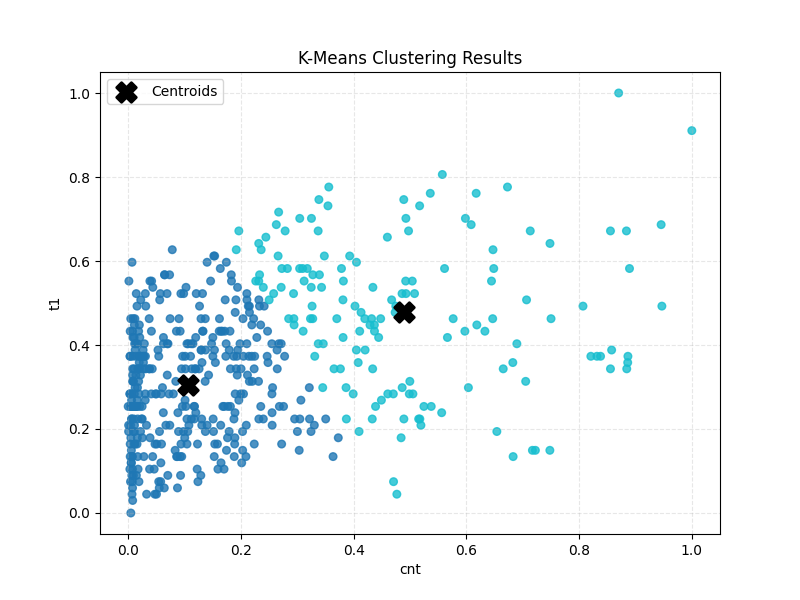
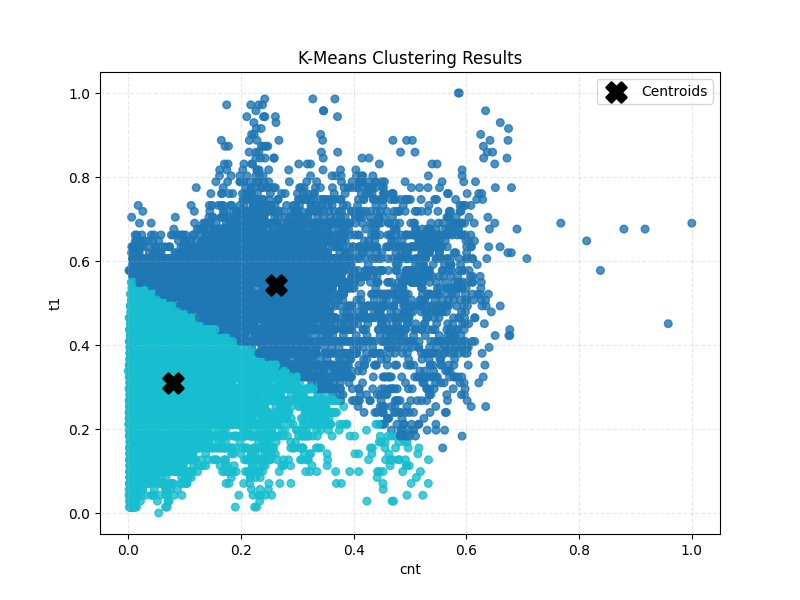
V1.0 cosmetic fixes in data_analysis finalized Kmeans a fix in transform_data vectorized recompute_centroids added visualize_results amended - changed dataset from sample to full sized

diff --git a/main.py b/main.py
@@ -4,7 +4,7 @@ from clustering import *
 
 
 def main():
-    data = load_data("london_sample_500.csv")
+    data = load_data("london.csv")
     data = add_new_columns(data)
     print("Part A:")
     data_analysis(data)
